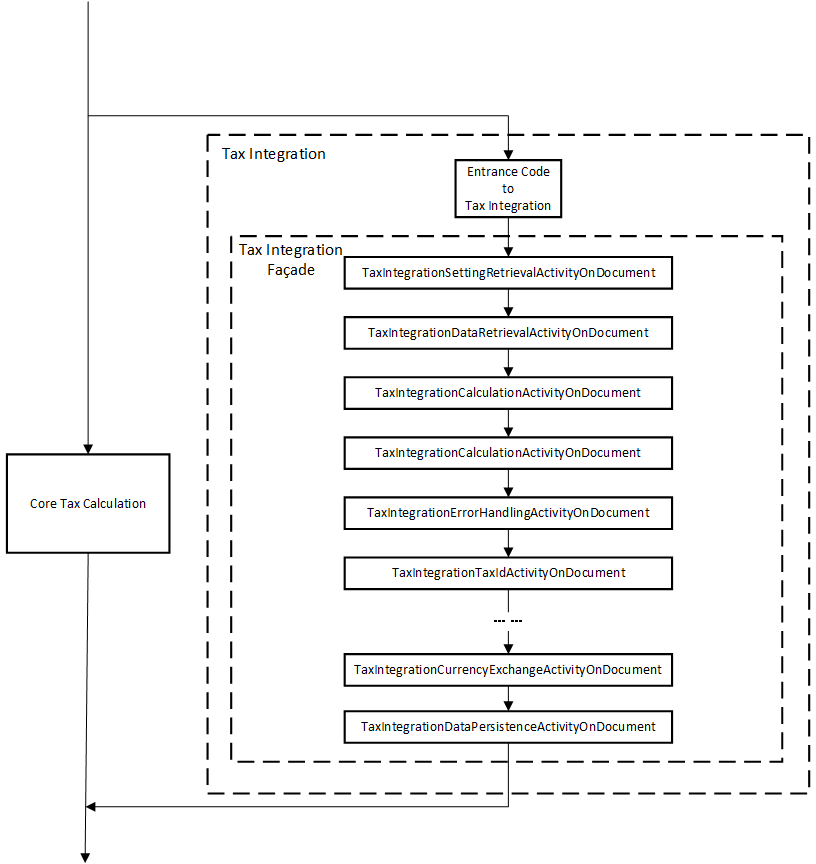
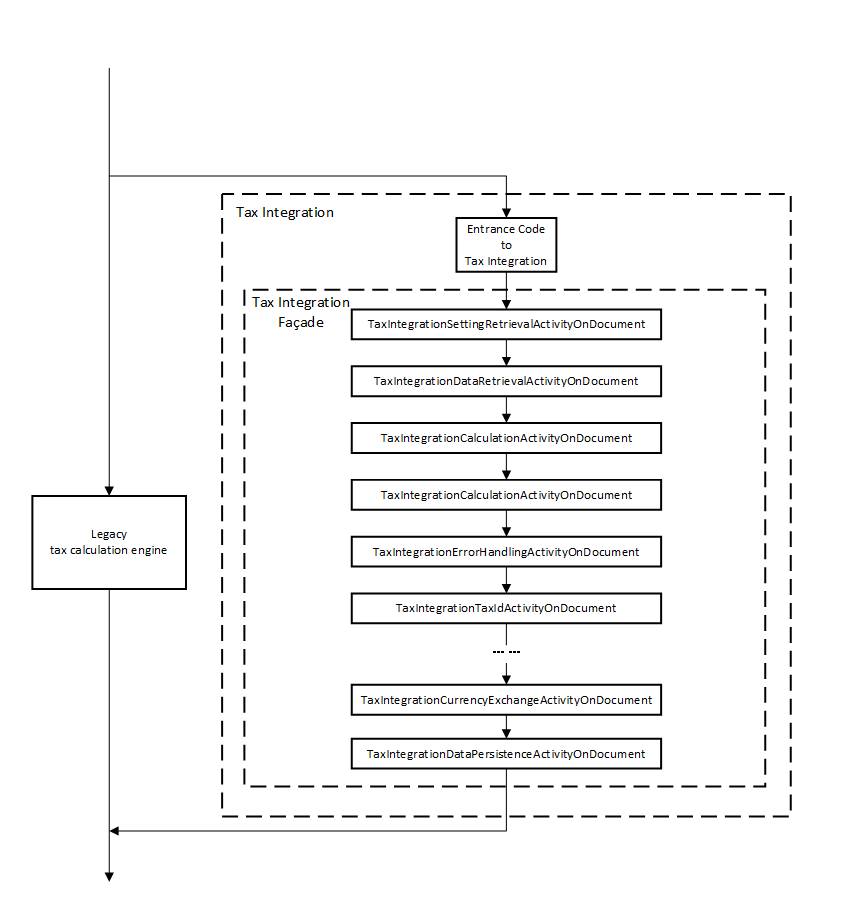
update tax-integration-flow

diff --git a/articles/finance/localizations/tax-integration-flow.md b/articles/finance/localizations/tax-integration-flow.md
@@ -13,36 +13,35 @@ ms.custom: bap-template
 
 [!include [banner](../includes/banner.md)]
 
-The flow of **Tax Integration** is showed as below chart:
+**Tax integration** is a framework designed to replace the legacy tax calculation engine by calling tax calculation service.
+This article introduces the basic flow of **tax integration**.
 
 ![IntegrationFlow.png](./media/tax-integration-flow.png)
 
-## Core tax and tax integration
-
-The left part in the chart is the original tax calculation engine, which is called **Core Tax**. It is by passed by the new **Tax Integration** framework which calls the new calculation engine **Tax Calculation Service**.
+The left part of the chart is the legacy tax calculation engine. It is bypassed by **Tax Integration** to call the new calculation engine **Tax Calculation Service**.
 
 All the modules in the big square make up the **Tax Integration**.
 
-## Entrance code to tax integration
+## Entrance to tax integration
 
-`TaxIntegrationFacade` holds the real tax integration flow. However, we need an entrance to enter the tax integration flow.
-This entrance code constructs `TaxIntegrationDocumentObject` and prepares some basic information which is used in the following integration flow.
+`TaxIntegrationFacade` class contains most of the code and functions of tax integration. However, some code is needed to enter the tax integration flow before `TaxIntegrationFacade`, which is the entrance to tax integration.
+This entrance code constructs a `TaxIntegrationDocumentObject`, which is passed to `TaxIntegrationFacade`. It also prepares some basic information, which is used in the following integration actions.
 
 ## TaxIntegrationFacade
 
-`TaxIntegrationFacade` controls the whole tax integration flow. It calls a bunch of classes with names like `TaxIntegration***ActivityOnDocument`. A `TaxIntegrationDocument` object is passed from activity to activity. And these activities carry out their action on the object in order.
+`TaxIntegrationFacade` class realizes and controls the real flow of tax integration. It calls a bunch of classes with names like `TaxIntegration***ActivityOnDocument`. A `TaxIntegrationDocument` object is passed from activity to activity. And these activities carry out their actions on the object in turn.
 
-The activities showed in the chart are all document level activities with suffix **OnDocument**. Actually, there is also line level activities that work on `TaxIntegrationLineObject`.
+The activities shown in the chart are all document-level activities with the suffix **OnDocument**. There are also line-level activities that work on `TaxIntegrationLineObject`, which suffix is *OnLine*.
 
-Simple introduction to these activites:
+Here is a simple introduction to these activities:
 
-- Setting retrieval activity(TaxIntegrationSettingRetrievalActivityOnDocument): Retrieves the settings that will impact tax calculation and save them in the `TaxIntegrationDocumentObject`.
-- Data retrieval activity(TaxIntegrationDataRetrievalActivityOnDocument): Prepares the metadata needed by tax calculation, copy them to a `TaxIntegrationDocumentObject`.
-- Calculation activity(TaxIntegrationCalculationActivityOnDocument): Transforms `TaxIntegrationDocumentObejct` to a request, sends the request to tax calculation service and receives the response from it.
-- Error handling activity(TaxIntegrationErrorHandlingActivityOnDocument): Handles the error message returned from tax calculation service.
+- Setting retrieval activity(TaxIntegrationSettingRetrievalActivityOnDocument): Retrieves the settings that will impact tax calculation. Then, it saves all the settings into the `TaxIntegrationDocumentObject`.
+- Data retrieval activity(TaxIntegrationDataRetrievalActivityOnDocument): Prepares the metadata needed by tax calculation. Then it copies them to the `TaxIntegrationDocumentObject`.
+- Calculation activity(TaxIntegrationCalculationActivityOnDocument): Transforms the `TaxIntegrationDocumentObejct` to a request Then, sends the request to the tax calculation service and parses the response from it.
+- Error handling activity(TaxIntegrationErrorHandlingActivityOnDocument): Handles the error message returned from the tax calculation service.
 - Tax ID activity(TaxIntegrationTaxIdActivityOnDocument): Processes logic regarding **Multiple VAT ID** feature.
 - List code activity(TaxIntegrationListCodeActivityOnDocument): Processes logic regarding **List Code** feature.
 - Currency exchange activity(TaxIntegrationCurrencyExchangeActivityOnDocument): Processed logic regarding **Currency Exchange rate/Rounding/Penny difference adjustment** feature.
-- Data persistence activity(TaxIntegrationDataPersistenceActivityOnDocument): Persists the tax calculation result and other information (VAT ID, list code and etc.) that need to be saved to the database.
+- Data persistence activity(TaxIntegrationDataPersistenceActivityOnDocument): Persists the tax calculation result and other information (VAT ID, list code, etc.) that need to be saved to the database.
 
 [!INCLUDE[footer-include](../../includes/footer-banner.md)]
